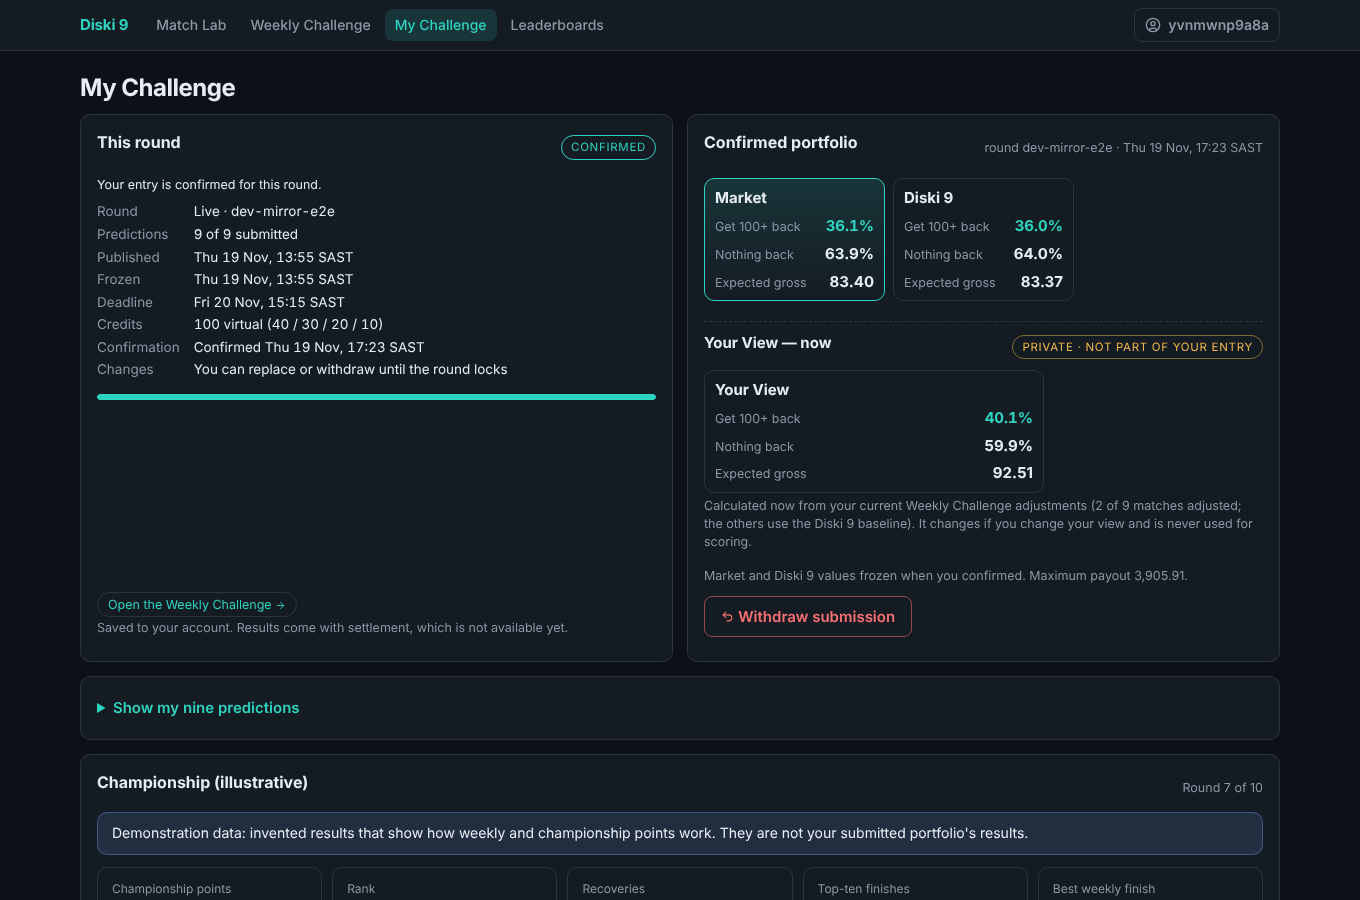
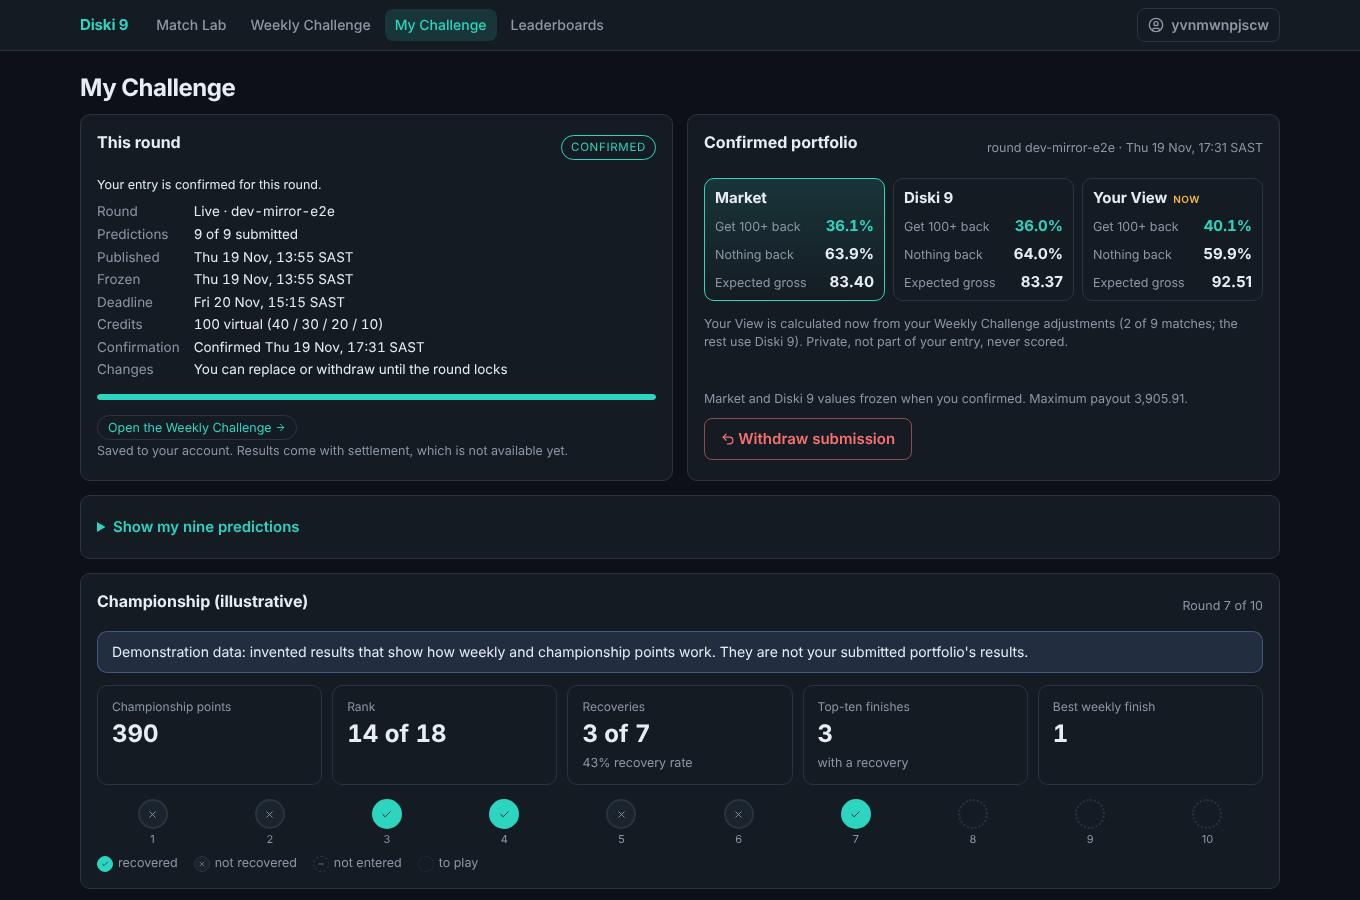
My Challenge layout: Your View as a third same-size card beside Market and Diski 9; compact, even top cards
Claude-Session: https://claude.ai/code/session_01G8XHfLBAfQK8Kx4cyd1XFy

diff --git a/src/diski9/app/assets/style.css b/src/diski9/app/assets/style.css
@@ -1273,9 +1273,12 @@ table.results td.value-cell { white-space: nowrap; }
 .ch-locked-entry .ch-locked-preds { margin: 10px 0 0; box-shadow: none; }
 @media (max-width: 600px) { .ch-locked-entry .ch-src-cards { grid-template-columns: minmax(0, 1fr); } }
 
-/* My Challenge: Your View calculated now (private, not part of the entry) */
-.ch-yv-now { margin-top: 10px; padding-top: 10px; border-top: 1px dashed var(--line, #2a3340); }
-.ch-yv-now .ch-src-cards { grid-template-columns: minmax(0, 1fr); margin: 8px 0 4px; }
-.ch-yv-now .ch-src-card { padding: 8px 10px; max-width: 340px; }
-.ch-yv-now .ch-src-card .ch-big, .ch-yv-now .ch-src-card strong { font-size: 15px; }
-.ch-yv-now-note { margin: 8px 0 0; }
+/* My Challenge: Your View calculated now (third card, same size; private) */
+.ch-src-tag { margin-left: 6px; font-size: 10px; font-weight: 600; letter-spacing: .04em;
+  text-transform: uppercase; white-space: nowrap; color: var(--warn, #d9a441); }
+.ch-yv-now-note { margin: 0 0 4px; }
+/* compact, even "This round" and "Confirmed portfolio" cards on desktop */
+@media (min-width: 961px) {
+  .ch-grid-me > .ch-card { padding-bottom: 12px; }
+  .ch-grid-me .ch-card-foot { padding-top: 6px; }
+}

diff --git a/src/diski9/app/challenge/pages.py b/src/diski9/app/challenge/pages.py
@@ -1121,8 +1121,10 @@ def k_detail(cc, k: int) -> html.Div:
 
 
 # ----------------------------------------------------------------- review
-def estimate_cards(estimates: dict) -> html.Div:
-    """Market / Diski 9 / Your View summary cards (recovery first)."""
+def estimate_cards(estimates: dict, tags: dict | None = None) -> html.Div:
+    """Market / Diski 9 / Your View summary cards (recovery first). ``tags`` adds a
+    small label beside a source's name (for example Your View "now")."""
+    tags = tags or {}
     cards = []
     for src in pa.SOURCES:
         e = estimates.get(src)
@@ -1131,7 +1133,13 @@ def estimate_cards(estimates: dict) -> html.Div:
         cards.append(
             html.Div(
                 [
-                    html.Span(pa.SOURCE_LABEL[src], className="ch-src-name"),
+                    html.Span(
+                        [
+                            pa.SOURCE_LABEL[src],
+                            html.Span(tags[src], className="ch-src-tag") if src in tags else None,
+                        ],
+                        className="ch-src-name",
+                    ),
                     html.Div(
                         [
                             html.Span("Get 100+ back", className="muted small"),
@@ -1635,41 +1643,26 @@ def your_view_now(service, snap, sub) -> dict | None:
     }
 
 
-def your_view_block(yv) -> html.Div | None:
-    if yv is None:
-        return None
-    if not yv["adjusted"]:
-        return html.P(
-            "Your View: none of these nine matches has a Weekly Challenge (frozen) "
-            "adjustment. Adjust a match in the Match Lab from the Weekly Challenge to "
-            "see your own estimate here.",
-            className="muted small ch-yv-now-note",
-        )
-    n = yv["adjusted"]
-    return html.Div(
-        [
-            html.Div(
-                [
-                    html.Span("Your View — now", className="ch-h3"),
-                    html.Span("Private · not part of your entry", className="ch-pill off"),
-                ],
-                className="ch-row-between",
-            ),
-            estimate_cards({"personal": yv["estimate"]}),
-            html.P(
-                f"Calculated now from your current Weekly Challenge adjustments "
-                f"({n} of 9 matches adjusted; the others use the Diski 9 baseline). "
-                "It changes if you change your view and is never used for scoring.",
-                className="muted small",
-            ),
-        ],
-        className="ch-yv-now",
-    )
-
-
 def confirmed_summary(sub, local, can_withdraw: bool, your_view=None) -> html.Div:
     """Compact card: the frozen submission's Market / Diski 9 estimates, and (for a
-    signed-in participant) Your View calculated now, clearly separated."""
+    signed-in participant) Your View calculated now, as a third card of the same size,
+    labelled private and not part of the entry."""
+    estimates = dict(sub.get("estimates") or {})
+    tags: dict = {}
+    yv_note = None
+    if your_view is not None and your_view.get("estimate"):
+        estimates["personal"] = your_view["estimate"]
+        tags["personal"] = "now"
+        n = your_view["adjusted"]
+        yv_note = (
+            f"Your View is calculated now from your Weekly Challenge adjustments ({n} of 9 "
+            "matches; the rest use Diski 9). Private, not part of your entry, never scored."
+        )
+    elif your_view is not None:
+        yv_note = (
+            "Your View: adjust one of these matches in the Match Lab from the Weekly "
+            "Challenge to see your own estimate here."
+        )
     return html.Div(
         [
             html.Div(
@@ -1683,8 +1676,8 @@ def confirmed_summary(sub, local, can_withdraw: bool, your_view=None) -> html.Di
                 ],
                 className="ch-row-between",
             ),
-            estimate_cards(sub.get("estimates") or {}),
-            your_view_block(your_view),
+            estimate_cards(estimates, tags),
+            html.P(yv_note, className="muted small ch-yv-now-note") if yv_note else None,
             html.Div(
                 [
                     html.Span(

diff --git a/tests/backend/test_app_persistence.py b/tests/backend/test_app_persistence.py
@@ -302,19 +302,19 @@ def test_my_challenge_shows_your_view_now_without_touching_the_entry(engine, op,
     stored = es.get_entry(engine, p, view.id).current
     as_user(p)
     out, _, _ = body_text(engine, view.id)
-    assert "Your View — now" not in out and "none of these nine matches" in out
+    assert "Your View is calculated now" not in out and "adjust one of these matches" in out
     # a frozen-context adjustment on one confirmed match
     fid = valid_keys(snap, 9)[0]["fixture_id"]
     state = yv.zero_state()
     state["manual"] = {"home": 0.4, "away": 0.0}
     yv.save_your_view(engine, p, yv.RoundContext(view.id, fid), state, expected_version=0)
     out, _, _ = body_text(engine, view.id)
-    assert "Your View — now" in out and "1 of 9 matches adjusted" in out
-    assert "Private · not part of your entry" in out
+    assert "Your View is calculated now" in out and "(1 of 9 matches" in out
+    assert "Private, not part of your entry, never scored" in out
     after = es.get_entry(engine, p, view.id).current
     assert (after.id, after.version, after.p_recover_market, after.expected_gross_market) == (
         stored.id, stored.version, stored.p_recover_market, stored.expected_gross_market)  # fmt: skip
     # another account sees nothing of it
     as_user(other)
     out, _, _ = body_text(engine, view.id)
-    assert "Your View — now" not in out
+    assert "Your View is calculated now" not in out

diff --git a/docs/phase6c3_local_acceptance_mac.md b/docs/phase6c3_local_acceptance_mac.md
@@ -175,7 +175,7 @@ The Weekly Challenge **Your View** probability source uses only your frozen-cont
 
 A guest sees **Sign in to confirm** instead of a confirm button.
 
-**Your View on My Challenge.** The confirmed card shows the frozen Market and Diski 9 figures. Below them, **Your View — now** appears once you have adjusted at least one of your nine matches in the Match Lab **from the Weekly Challenge** (header "Weekly Challenge snapshot"). It is calculated from your current adjustments each time the page loads, is private, and is not part of your entry. Adjustments made under "All upcoming fixtures" (latest data) are separate and do not count here.
+**Your View on My Challenge.** The confirmed card shows the frozen Market and Diski 9 figures. Below them, a third card **Your View (NOW)** appears beside Market and Diski 9 once you have adjusted at least one of your nine matches in the Match Lab **from the Weekly Challenge** (header "Weekly Challenge snapshot"). It is calculated from your current adjustments each time the page loads, is private, and is not part of your entry. Adjustments made under "All upcoming fixtures" (latest data) are separate and do not count here.
 
 ### F. Account isolation
 1. In one window, as A, make a draft and an adjustment, then sign out.
